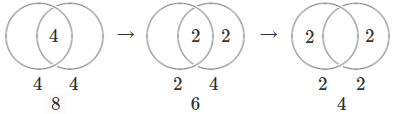
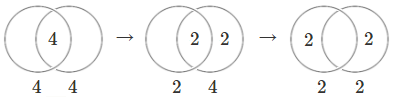
Reweighted Range Voting!

diff --git a/index.html b/index.html
@@ -269,7 +269,7 @@ a:hover.screenshot {
             \end{array}
 			\right] = 2+4+4-2-2=6
         \]
-		The keeps can be drawn on a Venn diagram to make sure we aren't over-counting.  There are 4 voters here.  First take 2 from the shared voter pool for one rep.  Then take 2 for the other.  The count of votes for both is reduced from 8 to 6 to 4 because reps keep some votes.
+		The keeps can be drawn on a Venn diagram to make sure we aren't over-counting.  There are 4 voters here.  First take 2 from the shared voter pool for one rep.  Then take 2 for the other.  Now all the candidates $A_1, B_1, and B_2$ each have 2 votes:
 		</p>
 		<p>
 		<div style="text-align: center">
@@ -635,6 +635,7 @@ print(["%d" % x[j1].X for j1 in range(9)])
 		<input class="op" checked="true" type="radio" name="compute"> Our Binary Quadratic Problem as described above. <br />
 		<input class="op" type="radio" name="compute"> STV <br />
 		<input class="op" type="radio" name="compute"> Meeks STV <br />
+		<input class="op" type="radio" name="compute"> RRV  <br />
 		<input class="op" type="radio" name="compute" id="openstv"> OpenSTV (todo)
 		<select id="stvtype" name="stvtype" onclick="selectOpenstv()">
 			<option value="Approval">Approval</option>

diff --git a/facility.py b/facility.py
@@ -209,6 +209,41 @@ def optimize(voters, reps, options, output=False):
 
         m.update()
         
+    elif options['computeRRV']:
+        
+        winBool = numpy.zeros(numReps)
+        winList = []
+        voterWeight = numpy.ones(numVoters)
+        voterWinSum = numpy.zeros(numVoters)
+        voterMax = numpy.max(b,1)
+        for i in range(nWinners):
+            t = numpy.matmul(voterWeight,b)
+            t[winList]=0
+            winner = numpy.argmax(t)
+            winBool[winner]=1
+            winList += [winner]
+            voterWinSum += b[:,winner]
+            voterWeight = 1/(1+voterWinSum/voterMax)
+        
+                
+        solution1 = []
+        solution2 = []
+        
+        for j in range(numReps):
+            if j in winList:
+                solution1.append(j)
+        
+        for i in range(numVoters):
+            maxj = 0
+            maxb = 0
+            for j in solution1:
+                if b[i,j] > maxb:
+                    maxj = j
+                    maxb = b[i,j]
+            solution2.append((i,maxj))
+
+        return [solution1, solution2, "STV" + options_str] 
+    
     elif options['computeMaxRRV']:
         
         # still to do
@@ -359,7 +394,7 @@ def optimize(voters, reps, options, output=False):
 def handleoptimize(jsdict):
     if 'clients' in jsdict and 'facilities' in jsdict and 'charge' in jsdict:
         optionsValues = jsdict['charge']
-        optionsNames =  ["numberOfWinners","keepsmultiplier","stvtype","seatsPlusZero","seatsPlusHalf","seatsPlusOne","normalizeBallots","oneOverDistanceBallots","linearBallots","exponentialBallots","thresholdBallots","bothOutOfOne","jaccardSimilarity","oneFromBoth","cosineSimilarity","l1Similarity","multiplySupport","computeBQP","computeSTV","MeeksSTV","computePluralityMultiwinner","computeSchulzeSTV","openstv","computeClustering","computeMaxRRV"]
+        optionsNames =  ["numberOfWinners","keepsmultiplier","stvtype","seatsPlusZero","seatsPlusHalf","seatsPlusOne","normalizeBallots","oneOverDistanceBallots","linearBallots","exponentialBallots","thresholdBallots","bothOutOfOne","jaccardSimilarity","oneFromBoth","cosineSimilarity","l1Similarity","multiplySupport","computeBQP","computeSTV","MeeksSTV","computeRRV","computePluralityMultiwinner","computeSchulzeSTV","openstv","computeClustering","computeMaxRRV"]
         options = dict(zip(optionsNames,optionsValues))
         solution = optimize(jsdict['clients'], jsdict['facilities'], options)
         return {'solution': solution }
